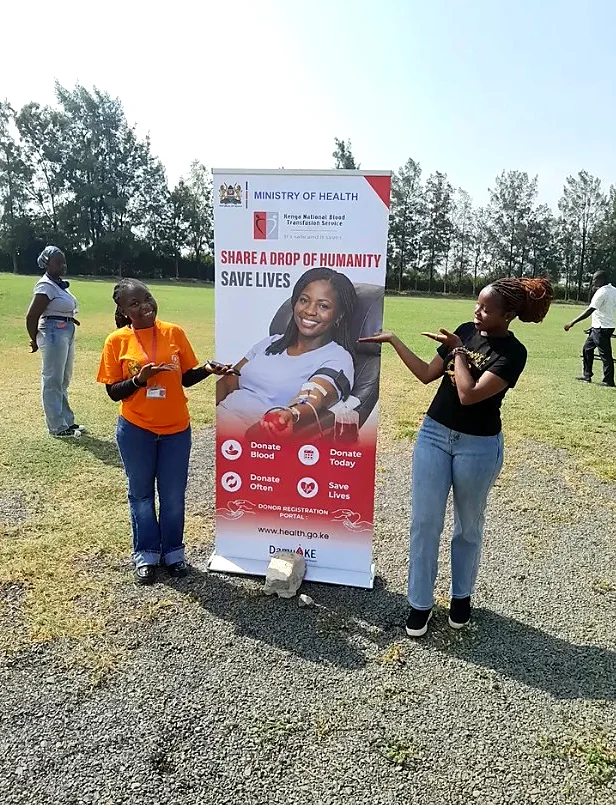
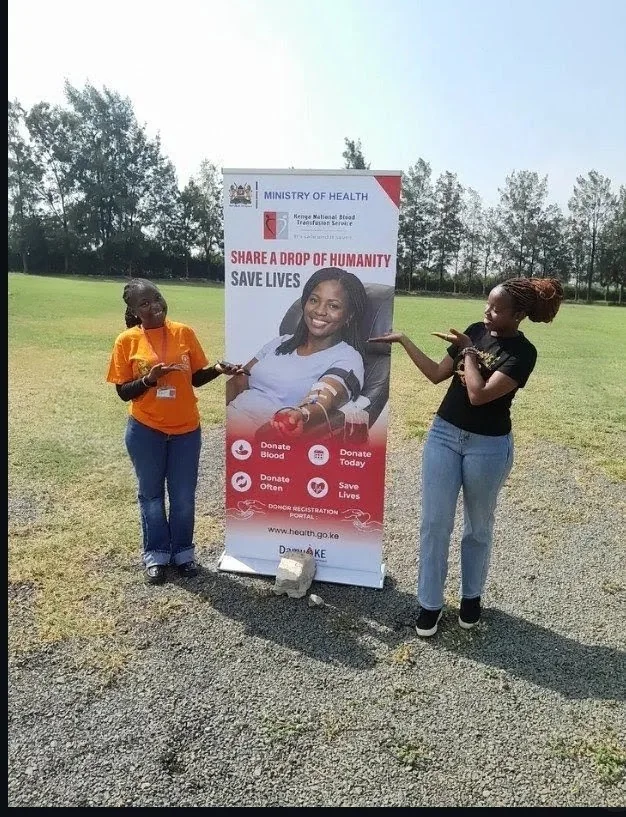
Add files via upload

diff --git a/index.html b/index.html
@@ -29,8 +29,11 @@
         <a href="#story">Our Story</a>
         <a href="#about">About</a>
         <a href="#initiatives">Initiatives</a>
+        <a href="#events">Events</a>
         <a href="#gallery">Gallery</a>
         <a href="#committees">Committees</a>
+        <a href="#leadership">Leadership</a>
+        <a href="#donate">Support</a>
       </nav>
     </div>
   </div>
@@ -82,6 +85,24 @@
     </div>
   </section>
 
+
+  <section class="block" id="events">
+    <div class="wrap">
+      <div class="sec-head reveal">
+        <p class="eyebrow">What&rsquo;s Next</p>
+        <h2 class="cm-h"><button class="cm-toggle" id="evToggle" type="button" aria-expanded="false" aria-controls="evDrop">Upcoming Events<span class="cm-chev" aria-hidden="true"></span></button></h2>
+      </div>
+      <div class="cm-drop" id="evDrop" role="region" aria-labelledby="evToggle">
+        <div class="cm-drop-clip">
+          <div class="ev-empty">
+            <svg class="ev-cal" viewBox="0 0 64 64" aria-hidden="true" focusable="false"><g fill="none" stroke="url(#gold)" stroke-width="2.6" stroke-linecap="round" stroke-linejoin="round"><rect x="8" y="12" width="48" height="44" rx="7"/><path d="M8 26h48M21 6v12M43 6v12"/></g><g fill="url(#gold)"><circle cx="23" cy="41" r="2.6"/><circle cx="32" cy="41" r="2.6"/><circle cx="41" cy="41" r="2.6"/></g></svg>
+            <h3>Nothing on the calendar yet</h3>
+            <p>We&rsquo;re busy planning the next one. Follow <a href="https://www.instagram.com/msauuofficial" target="_blank" rel="noopener noreferrer">@msauuofficial</a> to be the first to know when the date is set.</p>
+          </div>
+        </div>
+      </div>
+    </div>
+  </section>
   </div>
 
   <section class="block gallery" id="gallery" aria-labelledby="gallery-title">
@@ -93,83 +114,125 @@
     </div>
     <div class="g-stage reveal" id="gStage" tabindex="0" role="region" aria-roledescription="carousel" aria-label="MSAUU photo gallery. Drag to move, or use the left and right arrow keys.">
       <div class="g-track" id="gTrack">
-        <figure class="g-slide" style="--fade:26%" role="group" aria-roledescription="slide" aria-label="1 of 11">
+        <figure class="g-slide" style="--fade:26%" role="group" aria-roledescription="slide" aria-label="1 of 17">
           <div class="g-photo"><img src="gallery-pad-drive-students.webp" width="615" height="613" alt="Two students smiling and holding packs of sanitary pads at the pad drive" decoding="async" draggable="false"></div>
           <figcaption class="g-cap">
             <span class="g-fade" aria-hidden="true"></span>
             <div class="g-txt"><h3>Sanitary Pad Drive</h3><p>Handing out sanitary pads to schoolgirls as part of our community outreach.</p></div>
           </figcaption>
         </figure>
-        <figure class="g-slide" style="--fade:26%" role="group" aria-roledescription="slide" aria-label="2 of 11">
+<figure class="g-slide" style="--fade:26%" role="group" aria-roledescription="slide" aria-label="2 of 17">
           <div class="g-photo"><img src="gallery-leadership-installation.webp" width="612" height="651" alt="Group photo of members outdoors at the leadership handover ceremony" decoding="async" draggable="false"></div>
           <figcaption class="g-cap">
             <span class="g-fade" aria-hidden="true"></span>
             <div class="g-txt"><h3>Leadership Installation</h3><p>Handing over leadership and installing our new team, together with members.</p></div>
           </figcaption>
         </figure>
-        <figure class="g-slide" style="--fade:26%" role="group" aria-roledescription="slide" aria-label="3 of 11">
-          <div class="g-photo"><img src="gallery-blood-drive.webp" width="616" height="805" alt="Two students posing beside a blood donation banner on a field" decoding="async" draggable="false"></div>
+<figure class="g-slide" style="--fade:26%" role="group" aria-roledescription="slide" aria-label="3 of 17">
+          <div class="g-photo"><img src="gallery-blood-drive.webp" width="626" height="817" alt="Two students posing beside a blood donation banner on a field" decoding="async" draggable="false"></div>
           <figcaption class="g-cap">
             <span class="g-fade" aria-hidden="true"></span>
             <div class="g-txt"><h3>Blood Drive</h3><p>Sharing a drop of humanity at our blood drive earlier this year.</p></div>
           </figcaption>
         </figure>
-        <figure class="g-slide" style="--fade:26%" role="group" aria-roledescription="slide" aria-label="4 of 11">
+<figure class="g-slide" style="--fade:18%" role="group" aria-roledescription="slide" aria-label="4 of 17">
+<div class="g-photo"><img src="gallery-millennium-fellows.webp" width="720" height="540" alt="The first MSAUU cohort of Millennium Fellows standing together in front of Laboratory Block II" decoding="async" draggable="false"></div>
+<figcaption class="g-cap">
+<span class="g-fade" aria-hidden="true"></span>
+<div class="g-txt"><h3>Millennium Fellows</h3><p>Our first cohort to qualify for the Millennium Fellowship 2026.</p></div>
+</figcaption>
+</figure>
+<figure class="g-slide" style="--fade:26%" role="group" aria-roledescription="slide" aria-label="5 of 17">
           <div class="g-photo"><img src="gallery-scope-exchange.webp" width="645" height="645" alt="Exchange students and hosts standing together at an entrance" decoding="async" draggable="false"></div>
           <figcaption class="g-cap">
             <span class="g-fade" aria-hidden="true"></span>
             <div class="g-txt"><h3>SCOPE Exchange</h3><p>Welcoming exchange students to our university through SCOPE.</p></div>
           </figcaption>
         </figure>
-        <figure class="g-slide" style="--fade:26%" role="group" aria-roledescription="slide" aria-label="5 of 11">
+<figure class="g-slide" style="--fade:26%" role="group" aria-roledescription="slide" aria-label="6 of 17">
           <div class="g-photo"><img src="gallery-stethoscopes.webp" width="600" height="808" alt="Overhead view of hands holding stethoscopes in a circle" decoding="async" draggable="false"></div>
           <figcaption class="g-cap">
             <span class="g-fade" aria-hidden="true"></span>
             <div class="g-txt"><h3>Tools of the Trade</h3><p>Future doctors, stethoscopes in hand, learning to listen and to care.</p></div>
           </figcaption>
         </figure>
-        <figure class="g-slide" style="--fade:18%" role="group" aria-roledescription="slide" aria-label="6 of 11">
+<figure class="g-slide" style="--fade:18%" role="group" aria-roledescription="slide" aria-label="7 of 17">
           <div class="g-photo"><img src="gallery-uumrec-launch-selfie.webp" width="684" height="529" alt="Crowd of members smiling in a selfie at the research club launch" decoding="async" draggable="false"></div>
           <figcaption class="g-cap">
             <span class="g-fade" aria-hidden="true"></span>
             <div class="g-txt"><h3>UUMREC Launch</h3><p>Members and guests gather for a selfie at the launch of our research club.</p></div>
           </figcaption>
         </figure>
-        <figure class="g-slide" style="--fade:26%" role="group" aria-roledescription="slide" aria-label="7 of 11">
+<figure class="g-slide" style="--fade:26%" role="group" aria-roledescription="slide" aria-label="8 of 17">
           <div class="g-photo"><img src="gallery-pad-drive-outreach.webp" width="624" height="579" alt="Many schoolgirls holding up packs of sanitary pads outside a school building" decoding="async" draggable="false"></div>
           <figcaption class="g-cap">
             <span class="g-fade" aria-hidden="true"></span>
             <div class="g-txt"><h3>Pad Drive Outreach</h3><p>A full house of students raising their packs of sanitary pads.</p></div>
           </figcaption>
         </figure>
-        <figure class="g-slide" style="--fade:18%" role="group" aria-roledescription="slide" aria-label="8 of 11">
+<figure class="g-slide" style="--fade:18%" role="group" aria-roledescription="slide" aria-label="9 of 17">
+<div class="g-photo"><img src="gallery-kmpdc-inspection.webp" width="637" height="482" alt="MSAUU and Uzima University leaders standing together on the steps of the medical school building" decoding="async" draggable="false"></div>
+<figcaption class="g-cap">
+<span class="g-fade" aria-hidden="true"></span>
+<div class="g-txt"><h3>KMPDC Inspection</h3><p>Hosting KMPDC officials for the institutional inspection of the Uzima Medical School.</p></div>
+</figcaption>
+</figure>
+<figure class="g-slide" style="--fade:18%" role="group" aria-roledescription="slide" aria-label="10 of 17">
           <div class="g-photo"><img src="gallery-uumrec-launch-moments.webp" width="586" height="434" alt="Two attendees making hand gestures at the research club launch" decoding="async" draggable="false"></div>
           <figcaption class="g-cap">
             <span class="g-fade" aria-hidden="true"></span>
             <div class="g-txt"><h3>Launch Day Moments</h3><p>A light moment among members during the UUMREC launch.</p></div>
           </figcaption>
         </figure>
-        <figure class="g-slide" style="--fade:18%" role="group" aria-roledescription="slide" aria-label="9 of 11">
+<figure class="g-slide" style="--fade:18%" role="group" aria-roledescription="slide" aria-label="11 of 17">
           <div class="g-photo"><img src="gallery-finalists-dinner.webp" width="682" height="451" alt="Eight men in suits posing in front of black and gold balloons" decoding="async" draggable="false"></div>
           <figcaption class="g-cap">
             <span class="g-fade" aria-hidden="true"></span>
             <div class="g-txt"><h3>Finalists’ Dinner</h3><p>The class of 2025, dressed to impress for their finalists’ dinner.</p></div>
           </figcaption>
         </figure>
-        <figure class="g-slide" style="--fade:26%" role="group" aria-roledescription="slide" aria-label="10 of 11">
+<figure class="g-slide" style="--fade:26%" role="group" aria-roledescription="slide" aria-label="12 of 17">
+<div class="g-photo"><img src="gallery-pad-drive-awareness.webp" width="594" height="593" alt="A student speaking into a microphone to a seated audience during the pad drive" decoding="async" draggable="false"></div>
+<figcaption class="g-cap">
+<span class="g-fade" aria-hidden="true"></span>
+<div class="g-txt"><h3>Pad Drive Awareness</h3><p>Speaking to the community during our pad drive.</p></div>
+</figcaption>
+</figure>
+<figure class="g-slide" style="--fade:26%" role="group" aria-roledescription="slide" aria-label="13 of 17">
           <div class="g-photo"><img src="gallery-dinner-dance-floor.webp" width="683" height="689" alt="Guests in formal wear dancing and laughing at the dinner" decoding="async" draggable="false"></div>
           <figcaption class="g-cap">
             <span class="g-fade" aria-hidden="true"></span>
             <div class="g-txt"><h3>On the Dance Floor</h3><p>Celebrating a milestone with music and movement.</p></div>
           </figcaption>
         </figure>
-        <figure class="g-slide" style="--fade:26%" role="group" aria-roledescription="slide" aria-label="11 of 11">
+<figure class="g-slide" style="--fade:18%" role="group" aria-roledescription="slide" aria-label="14 of 17">
+<div class="g-photo"><img src="gallery-inauguration-2026.webp" width="720" height="540" alt="Members holding certificates at the 2026–2027 leadership inauguration" decoding="async" draggable="false"></div>
+<figcaption class="g-cap">
+<span class="g-fade" aria-hidden="true"></span>
+<div class="g-txt"><h3>2026–2027 Inauguration</h3><p>Graced by Prof. Juliana Otieno, former CEO of Jaramogi Oginga Odinga Teaching and Referral Hospital.</p></div>
+</figcaption>
+</figure>
+<figure class="g-slide" style="--fade:26%" role="group" aria-roledescription="slide" aria-label="15 of 17">
           <div class="g-photo"><img src="gallery-class-of-2025.webp" width="670" height="656" alt="Guests in evening wear smiling and dancing near a decorated table" decoding="async" draggable="false"></div>
           <figcaption class="g-cap">
             <span class="g-fade" aria-hidden="true"></span>
             <div class="g-txt"><h3>Class of 2025</h3><p>Laughter and celebration among finalists and guests.</p></div>
           </figcaption>
         </figure>
+<figure class="g-slide" style="--fade:26%" role="group" aria-roledescription="slide" aria-label="16 of 17">
+<div class="g-photo"><img src="gallery-score-exchange.webp" width="628" height="624" alt="Members and guests standing together on a lakeshore at sunset" decoding="async" draggable="false"></div>
+<figcaption class="g-cap">
+<span class="g-fade" aria-hidden="true"></span>
+<div class="g-txt"><h3>SCORE Exchange</h3><p>Moments from our SCORE exchange.</p></div>
+</figcaption>
+</figure>
+<figure class="g-slide" style="--fade:26%" role="group" aria-roledescription="slide" aria-label="17 of 17">
+<div class="g-photo"><img src="gallery-pad-drive-education.webp" width="636" height="846" alt="A student in a SCORA T-shirt pointing to a hand-drawn diagram of the female reproductive system" decoding="async" draggable="false"></div>
+<figcaption class="g-cap">
+<span class="g-fade" aria-hidden="true"></span>
+<div class="g-txt"><h3>Pad Drive Education</h3><p>Explaining the female reproductive system with a hand-drawn chart.</p></div>
+</figcaption>
+</figure>
       </div>
     </div>
   </section>
@@ -294,6 +357,54 @@
     </div>
   </section>
 
+  <section class="block strip leadership" id="leadership">
+    <div class="wrap">
+      <div class="sec-head">
+        <h2 class="cm-h"><button class="cm-toggle" id="ldToggle" type="button" aria-expanded="false" aria-controls="ldDrop">Current Leadership<span class="cm-chev" aria-hidden="true"></span></button></h2>
+      </div>
+      <div class="cm-drop" id="ldDrop" role="region" aria-labelledby="ldToggle">
+        <div class="cm-drop-clip">
+          <div class="strip-body">
+            <p class="eyebrow">2026&ndash;2027</p>
+            <div class="leaders">
+              <div class="leader"><p class="role">President</p><h3>Brian Apudo</h3></div>
+              <div class="leader"><p class="role">Vice President</p><h3>Janet Akello</h3></div>
+              <div class="leader"><p class="role">Secretary General</p><h3>John Otieno</h3></div>
+              <div class="leader"><p class="role">Assistant Secretary General</p><h3>Alex Etilan</h3></div>
+              <div class="leader"><p class="role">Treasurer</p><h3>Oyert Kirui</h3></div>
+              <div class="leader"><p class="role">Assistant Treasurer</p><h3>Stephanie Odipo</h3></div>
+              <div class="leader"><p class="role">Organizing Secretary</p><h3>Moses Ogweno</h3></div>
+              <div class="leader"><p class="role">Assistant Organizing Secretary</p><h3>Michelle Grace</h3></div>
+              <div class="leader"><p class="role">Secretary for Publications</p><h3>David Opar</h3></div>
+              <div class="leader"><p class="role">Secretary for Capacity Building</p><h3>Shem Abujee</h3></div>
+              <div class="leader patron"><p class="role">Patron</p><h3>Prof. BKO Ganda</h3><p class="bio">Dean, School of Medicine. A distinguished paediatrician and nephrologist with over four decades of experience in academic leadership and research.</p></div>
+            </div>
+          </div>
+        </div>
+      </div>
+    </div>
+  </section>
+
+  <section class="block strip donate last" id="donate">
+    <div class="wrap">
+      <div class="sec-head">
+        <h2 class="cm-h"><button class="cm-toggle" id="spToggle" type="button" aria-expanded="false" aria-controls="spDrop">Support our work<span class="cm-chev" aria-hidden="true"></span></button></h2>
+      </div>
+      <div class="cm-drop" id="spDrop" role="region" aria-labelledby="spToggle">
+        <div class="cm-drop-clip">
+          <div class="strip-body">
+            <p class="don-lead">Your contribution helps MSAUU keep running its outreach, drives and student programmes. You can give using the bank details below.</p>
+            <div class="don-card">
+              <div class="don-row"><p class="don-k">Bank</p><p class="don-v">Kenya Commercial Bank (KCB)</p></div>
+              <div class="don-row"><p class="don-k">Account number</p><div class="don-acc"><p class="don-v don-num" id="accNum">1343900573</p><button class="don-copy" id="copyAcc" type="button" aria-label="Copy account number">Copy</button></div></div>
+              <div class="don-row"><p class="don-k">Account name</p><p class="don-v">Medical Students Association of Uzima University</p></div>
+            </div>
+          </div>
+        </div>
+      </div>
+    </div>
+  </section>
+
 </main>
 
 <footer>
@@ -309,8 +420,11 @@
           <li><a href="#story">Our Story</a></li>
           <li><a href="#about">About</a></li>
           <li><a href="#initiatives">Initiatives</a></li>
+<li><a href="#events">Events</a></li>
           <li><a href="#gallery">Gallery</a></li>
           <li><a href="#committees">Standing Committees</a></li>
+<li><a href="#leadership">Leadership</a></li>
+<li><a href="#donate">Support</a></li>
         </ul></div>
       </nav>
       <div class="f-col">

diff --git a/style.css b/style.css
@@ -220,3 +220,58 @@
     * { transition: none !important; animation: none !important; }
     .js .reveal { opacity: 1; transform: none; }
   }
+
+
+  /* ================= preview additions ================= */
+  /* header: wraps so the dropdown menu opens below the bar instead of beside it */
+  .bar { flex-wrap: wrap; height: auto; min-height: var(--header-h); }
+  .brand, .menu-btn { height: var(--header-h); }
+  .menu-btn { margin-left: auto; }
+  .nav { flex: 0 0 100%; order: 10; }
+  @media (min-width: 860px) and (max-width: 999px) {
+    .menu-btn { display: inline-flex; }
+    .nav { display: none !important; padding: 4px 0 16px; gap: 0; }
+    .nav.open { display: block !important; }
+    .nav a { border-top: 1px solid var(--line); padding: 14px 0; font-size: inherit; }
+  }
+  @media (min-width: 1000px) {
+    .bar { flex-wrap: nowrap; height: var(--header-h); }
+    .nav { flex: 0 1 auto; order: 0; gap: 26px; }
+  }
+
+  /* stacked drop-down strips under Standing Committees */
+  section.block.committees { padding-bottom: 0; }
+  section.block.strip { padding-top: 0; padding-bottom: 0; }
+  section.block.strip.last { padding-bottom: 96px; }
+  .strip .cm-toggle { border-top: 0; }
+  .strip-body { padding: 30px 0 44px; }
+  .strip-body .eyebrow { margin-bottom: 4px; }
+
+  /* events: empty state */
+  .ev-empty { padding: 44px 0 52px; text-align: center; }
+  .ev-cal { width: 64px; height: 64px; margin: 0 auto 18px; display: block; }
+  .ev-empty h3 { font-size: 22px; font-weight: 600; margin-bottom: 10px; }
+  .ev-empty p { color: var(--muted); max-width: 27em; margin: 0 auto; }
+  .ev-empty a { color: var(--gold); text-underline-offset: 3px; }
+
+  /* leadership */
+  .leaders { margin-top: 18px; display: grid; grid-template-columns: 1fr; border-bottom: 1px solid var(--line); }
+  .leader { border-top: 1px solid var(--line); padding: 22px 0; }
+  .leader .role { font: 600 12px/1.4 var(--body); letter-spacing: .14em; text-transform: uppercase; color: var(--gold); margin-bottom: 8px; }
+  .leader h3 { font-size: 23px; font-weight: 600; }
+  .leader .bio { margin-top: 10px; max-width: 34em; color: var(--muted); font-size: 15px; line-height: 1.6; }
+  .leader.patron { grid-column: 1 / -1; }
+  @media (min-width: 560px) { .leaders { grid-template-columns: repeat(2, 1fr); gap: 0 40px; } }
+
+  /* support / donate */
+  .don-lead { max-width: 34em; color: #c4bba6; }
+  .don-card { margin-top: 26px; max-width: 620px; background: linear-gradient(180deg, #13110b, #0d0c08); border: 1px solid #2b2417; border-radius: 12px; padding: 6px 24px; }
+  .don-row { padding: 20px 0; border-top: 1px solid var(--line); }
+  .don-row:first-child { border-top: 0; }
+  .don-k { font: 600 12px/1.4 var(--body); letter-spacing: .16em; text-transform: uppercase; color: var(--gold); margin-bottom: 6px; }
+  .don-v { font-size: 18px; line-height: 1.4; color: var(--ink); }
+  .don-acc { display: flex; align-items: center; justify-content: space-between; gap: 16px; }
+  .don-num { font-family: var(--head); font-weight: 700; font-size: 30px; letter-spacing: .04em; font-feature-settings: "lnum" 1; background: var(--metal-text); -webkit-background-clip: text; background-clip: text; -webkit-text-fill-color: transparent; user-select: all; -webkit-user-select: all; }
+  .don-copy { flex: none; font: 600 13px/1 var(--body); color: var(--gold-hi); background: transparent; border: 1px solid var(--ring); border-radius: 999px; padding: 10px 16px; cursor: pointer; transition: border-color .2s, color .2s, background-color .2s; }
+  .don-copy:hover { border-color: var(--gold); }
+  .don-copy.done { color: var(--gold-ink); background: var(--metal-fill); border-color: transparent; }

diff --git a/script.js b/script.js
@@ -254,3 +254,50 @@
   });
   if (location.hash === '#committees') set(true);
 })();
+
+
+/* events, leadership and support drop-downs (same behaviour as Standing Committees) */
+(function () {
+  [['evToggle', 'evDrop', '#events'], ['ldToggle', 'ldDrop', '#leadership'], ['spToggle', 'spDrop', '#donate']].forEach(function (p) {
+    var btn = document.getElementById(p[0]);
+    var drop = document.getElementById(p[1]);
+    if (!btn || !drop) return;
+    function set(open) {
+      btn.setAttribute('aria-expanded', open ? 'true' : 'false');
+      drop.classList.toggle('open', open);
+    }
+    btn.addEventListener('click', function () { set(btn.getAttribute('aria-expanded') !== 'true'); });
+    /* menu and footer links open it too */
+    document.addEventListener('click', function (e) {
+      var a = e.target.closest && e.target.closest('a[href="' + p[2] + '"]');
+      if (a) set(true);
+    });
+    if (location.hash === p[2]) set(true);
+  });
+})();
+
+/* support: tap to copy the account number */
+(function () {
+  var btn = document.getElementById('copyAcc');
+  var num = document.getElementById('accNum');
+  if (!btn || !num) return;
+  function done() {
+    btn.textContent = 'Copied'; btn.classList.add('done');
+    setTimeout(function () { btn.textContent = 'Copy'; btn.classList.remove('done'); }, 1800);
+  }
+  function fallback() {
+    try {
+      var r = document.createRange(); r.selectNodeContents(num);
+      var sel = window.getSelection(); sel.removeAllRanges(); sel.addRange(r);
+      if (document.execCommand('copy')) { done(); return; }
+    } catch (e) {}
+    btn.textContent = 'Press and hold to copy';
+    setTimeout(function () { btn.textContent = 'Copy'; }, 2600);
+  }
+  btn.addEventListener('click', function () {
+    var text = num.textContent.trim();
+    if (navigator.clipboard && navigator.clipboard.writeText) {
+      navigator.clipboard.writeText(text).then(done, fallback);
+    } else { fallback(); }
+  });
+})();
